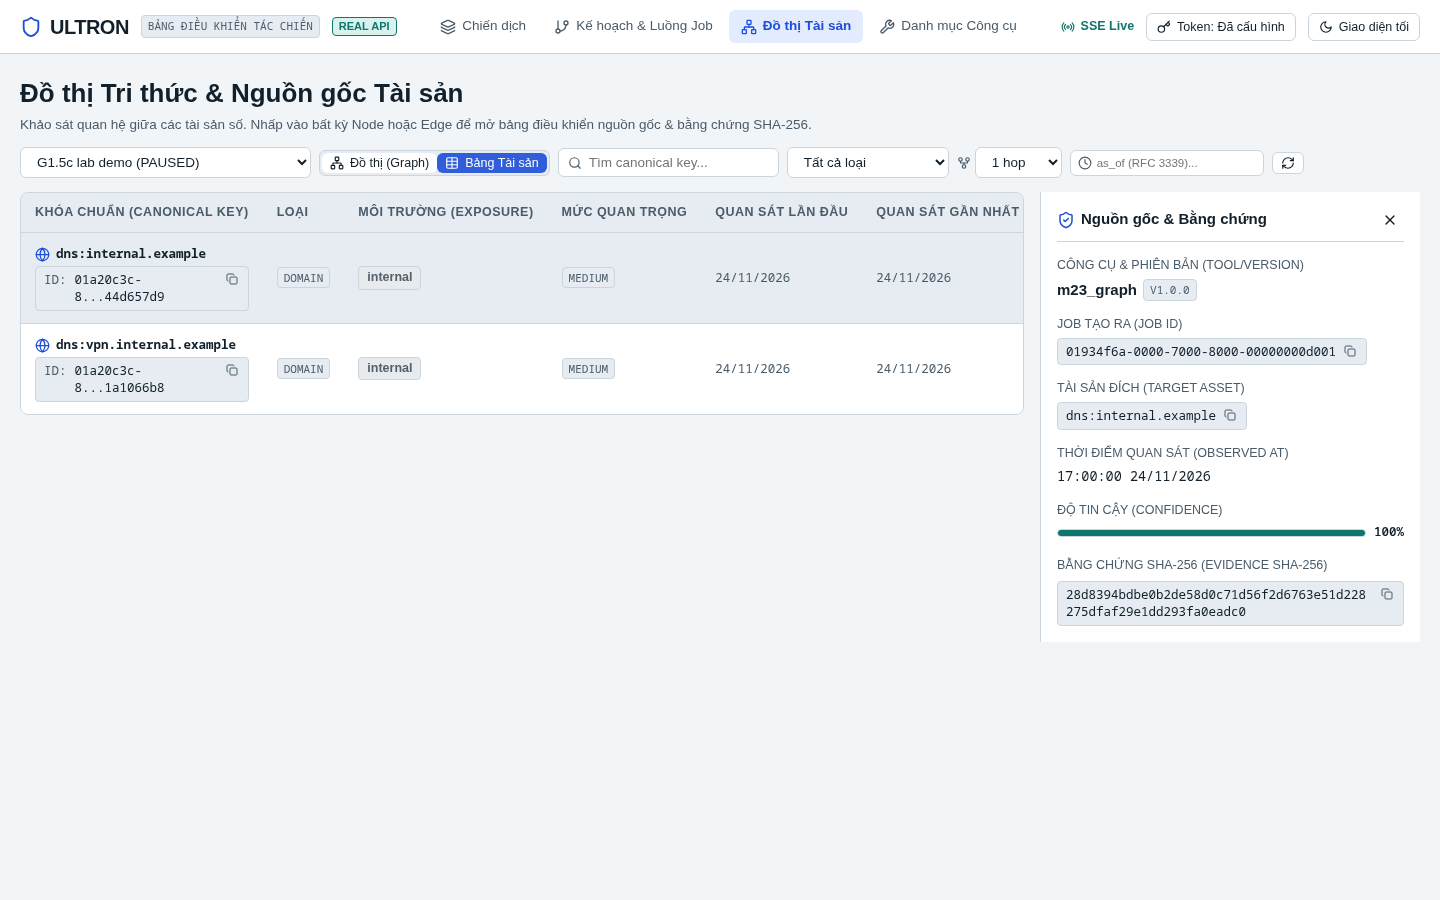
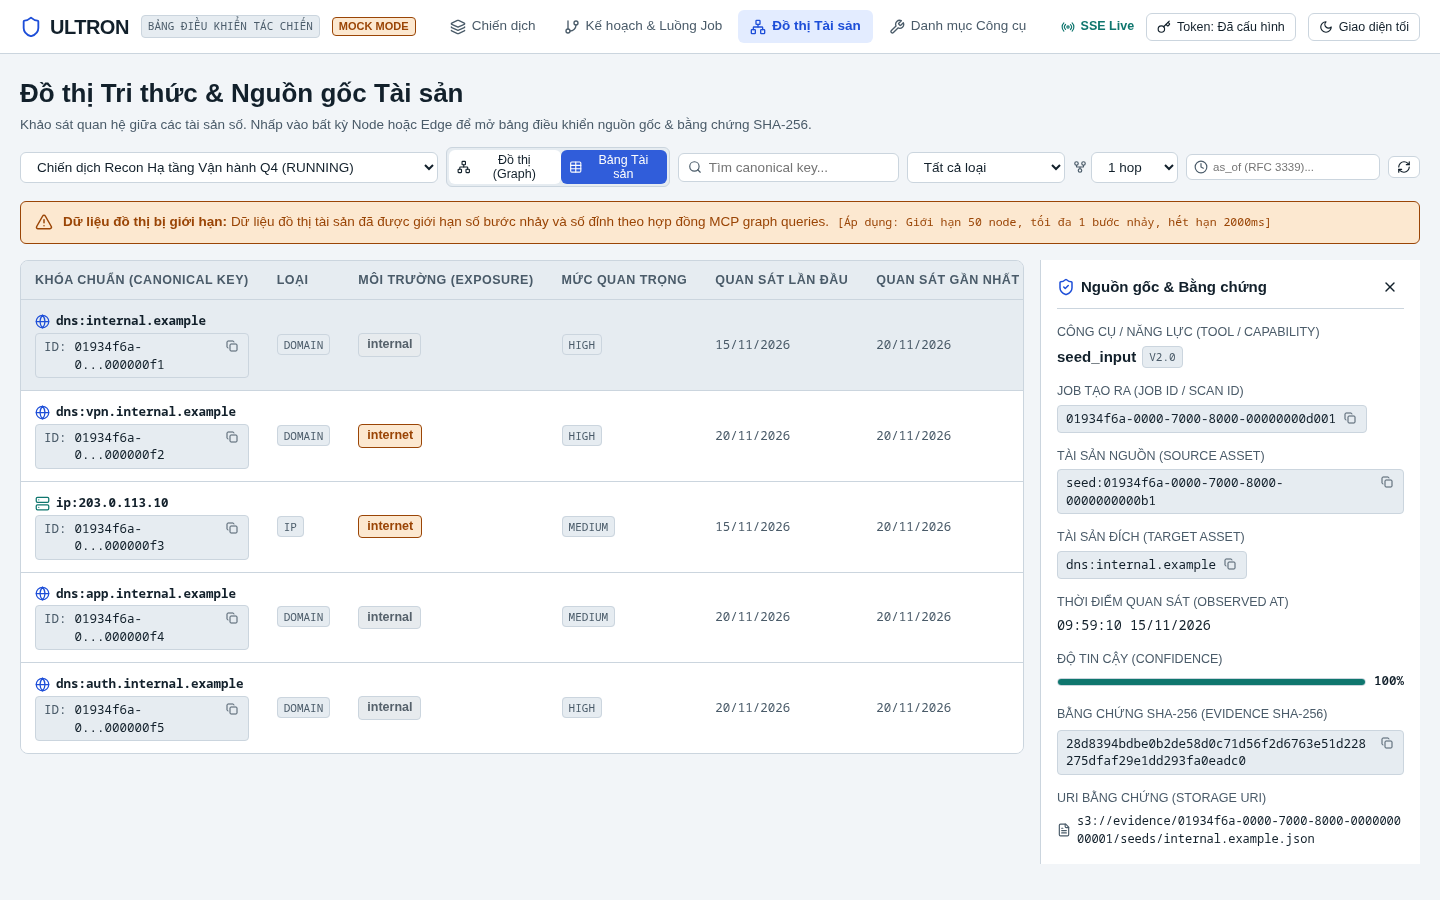
fix(ui): strictly map provenance panel to asset history contract fields
- Remove invented fallback strings for tool, version, and SHA-256 evidence
- Map ProvenancePanel directly to fields returned by GET /assets/{id}/history (scan_id, capability, provider, predicate, polarity, observed_at, evidence_ids)
- Guard screenshot copying in E2E tests to preserve leader review artifacts during mock test runs

diff --git a/ui/src/components/ProvenancePanel.tsx b/ui/src/components/ProvenancePanel.tsx
@@ -29,21 +29,25 @@ export const ProvenancePanel: React.FC<ProvenancePanelProps> = ({ data, onClose 
         </button>
       </div>
 
-      <div className="provenance-item">
-        <span className="provenance-label">Công cụ & Phiên bản (Tool/Version)</span>
-        <div style={{ display: 'flex', alignItems: 'center', gap: 6 }}>
-          <span style={{ fontWeight: 600, color: 'var(--ink)' }}>{data.tool}</span>
-          <span className="brand-badge">{data.version}</span>
-          {data.adapterVersion && <span className="brand-badge">adapter {data.adapterVersion}</span>}
+      {data.tool && (
+        <div className="provenance-item">
+          <span className="provenance-label">Công cụ / Năng lực (Tool / Capability)</span>
+          <div style={{ display: 'flex', alignItems: 'center', gap: 6 }}>
+            <span style={{ fontWeight: 600, color: 'var(--ink)' }}>{data.tool}</span>
+            {data.version && <span className="brand-badge">{data.version}</span>}
+            {data.adapterVersion && <span className="brand-badge">adapter {data.adapterVersion}</span>}
+          </div>
         </div>
-      </div>
+      )}
 
-      <div className="provenance-item">
-        <span className="provenance-label">Job tạo ra (Job ID)</span>
-        <div style={{ maxWidth: '100%' }}>
-          <CopyableId value={data.jobId} truncate={false} />
+      {data.jobId && (
+        <div className="provenance-item">
+          <span className="provenance-label">Job tạo ra (Job ID / Scan ID)</span>
+          <div style={{ maxWidth: '100%' }}>
+            <CopyableId value={data.jobId} truncate={false} />
+          </div>
         </div>
-      </div>
+      )}
 
       {data.sourceAsset && (
         <div className="provenance-item">
@@ -63,46 +67,62 @@ export const ProvenancePanel: React.FC<ProvenancePanelProps> = ({ data, onClose 
         </div>
       )}
 
-      <div className="provenance-item">
-        <span className="provenance-label">Thời điểm quan sát (Observed At)</span>
-        <span className="mono" style={{ fontSize: 'var(--text-sm)', color: 'var(--ink)' }}>
-          {new Date(data.observedAt).toLocaleString('vi-VN')}
-        </span>
-      </div>
-
-      <div className="provenance-item">
-        <span className="provenance-label">Độ tin cậy (Confidence)</span>
-        <div style={{ display: 'flex', alignItems: 'center', gap: 8 }}>
-          <div
-            style={{
-              flex: 1,
-              height: 8,
-              backgroundColor: 'var(--subtle)',
-              borderRadius: 'var(--radius-sm)',
-              overflow: 'hidden',
-              border: '1px solid var(--line)',
-            }}
-          >
-            <div
-              style={{
-                width: `${data.confidence * 100}%`,
-                height: '100%',
-                backgroundColor: data.confidence >= 0.8 ? 'var(--success)' : 'var(--warning)',
-              }}
-            />
+      {data.predicate && (
+        <div className="provenance-item">
+          <span className="provenance-label">Vị từ & Trạng thái (Predicate & Polarity)</span>
+          <div style={{ display: 'flex', alignItems: 'center', gap: 6 }}>
+            <span className="mono" style={{ fontSize: 'var(--text-xs)', color: 'var(--ink)' }}>{data.predicate}</span>
+            {data.polarity && <span className="brand-badge">{data.polarity}</span>}
           </div>
-          <span className="mono" style={{ fontSize: 'var(--text-xs)', fontWeight: 600 }}>
-            {(data.confidence * 100).toFixed(0)}%
+        </div>
+      )}
+
+      {data.observedAt && (
+        <div className="provenance-item">
+          <span className="provenance-label">Thời điểm quan sát (Observed At)</span>
+          <span className="mono" style={{ fontSize: 'var(--text-sm)', color: 'var(--ink)' }}>
+            {new Date(data.observedAt).toLocaleString('vi-VN')}
           </span>
         </div>
-      </div>
+      )}
 
-      <div className="provenance-item">
-        <span className="provenance-label">Bằng chứng SHA-256 (Evidence SHA-256)</span>
-        <div style={{ marginTop: 2, maxWidth: '100%' }}>
-          <CopyableId value={data.sha256} truncate={false} />
+      {typeof data.confidence === 'number' && (
+        <div className="provenance-item">
+          <span className="provenance-label">Độ tin cậy (Confidence)</span>
+          <div style={{ display: 'flex', alignItems: 'center', gap: 8 }}>
+            <div
+              style={{
+                flex: 1,
+                height: 8,
+                backgroundColor: 'var(--subtle)',
+                borderRadius: 'var(--radius-sm)',
+                overflow: 'hidden',
+                border: '1px solid var(--line)',
+              }}
+            >
+              <div
+                style={{
+                  width: `${data.confidence * 100}%`,
+                  height: '100%',
+                  backgroundColor: data.confidence >= 0.8 ? 'var(--success)' : 'var(--warning)',
+                }}
+              />
+            </div>
+            <span className="mono" style={{ fontSize: 'var(--text-xs)', fontWeight: 600 }}>
+              {(data.confidence * 100).toFixed(0)}%
+            </span>
+          </div>
         </div>
-      </div>
+      )}
+
+      {(data.sha256 || (data.evidenceIds && data.evidenceIds.length > 0)) && (
+        <div className="provenance-item">
+          <span className="provenance-label">Bằng chứng SHA-256 (Evidence SHA-256)</span>
+          <div style={{ marginTop: 2, maxWidth: '100%' }}>
+            <CopyableId value={data.sha256 || data.evidenceIds![0]} truncate={false} />
+          </div>
+        </div>
+      )}
 
       {data.evidenceUri && (
         <div className="provenance-item">
@@ -113,6 +133,12 @@ export const ProvenancePanel: React.FC<ProvenancePanelProps> = ({ data, onClose 
               {data.evidenceUri}
             </span>
           </div>
+        </div>
+      )}
+
+      {!data.tool && !data.jobId && !data.sha256 && !(data.evidenceIds && data.evidenceIds.length > 0) && (
+        <div className="provenance-item" style={{ color: 'var(--muted)', fontSize: 'var(--text-xs)' }}>
+          Chưa có quan sát ghi nhận từ công cụ (No tool observations recorded)
         </div>
       )}
     </aside>

diff --git a/ui/src/api/client.ts b/ui/src/api/client.ts
@@ -244,36 +244,28 @@ export const apiClient = {
         const history = await this.getAssetHistory(targetId);
         const latestObs = history.items && history.items.length > 0 ? history.items[0] : null;
 
-        let tool = 'm23_graph';
-        let version = 'v1.0.0';
-        let adapterVersion: string | undefined;
-
-        if (latestObs?.provider) {
-          const parts = latestObs.provider.split(':');
-          tool = parts[0] || 'm23_graph';
-          if (parts[1]) version = parts[1];
-        } else if (latestObs?.capability) {
-          tool = latestObs.capability;
+        if (latestObs) {
+          const tool = latestObs.provider || latestObs.capability || undefined;
+          return {
+            tool,
+            capability: latestObs.capability,
+            provider: latestObs.provider,
+            jobId: latestObs.scan_id,
+            observedAt: latestObs.observed_at,
+            predicate: latestObs.predicate,
+            polarity: latestObs.polarity,
+            evidenceIds: latestObs.evidence_ids,
+            confidence: edge?.confidence,
+            sha256: latestObs.evidence_ids && latestObs.evidence_ids.length > 0 ? latestObs.evidence_ids[0] : undefined,
+            sourceAsset: history.asset.discovered_from?.[0] || edge?.from,
+            targetAsset: history.asset.canonical_key || edge?.to,
+          };
         }
 
-        const sha256 =
-          latestObs?.evidence_ids && latestObs.evidence_ids.length > 0
-            ? latestObs.evidence_ids[0]
[1 lines of base64/hex data omitted]
-
         return {
-          tool,
-          version,
-          adapterVersion,
-          jobId: latestObs?.scan_id || '01934f6a-0000-7000-8000-00000000d001',
-          observedAt: latestObs?.observed_at || history.asset.last_seen || history.asset.first_seen,
-          confidence: edge?.confidence ?? 1.0,
-          sha256,
+          observedAt: history.asset.last_seen || history.asset.first_seen,
           sourceAsset: history.asset.discovered_from?.[0] || edge?.from,
           targetAsset: history.asset.canonical_key || edge?.to,
-          evidenceUri: latestObs?.evidence_ids?.[0]
-            ? `evidence://${latestObs.evidence_ids[0]}`
-            : undefined,
         };
       } catch (err) {
         console.warn('Failed to load asset history for provenance:', err);
@@ -281,16 +273,10 @@ export const apiClient = {
     }
 
     if (edge) {
-      const tool = edge.type.toLowerCase().includes('subdomain') ? 'subfinder' : 'dnsx';
       return {
-        tool,
-        version: 'v1.0.0',
         jobId: edge.source_job_id,
-        observedAt: edge.observed_at || edge.valid_from || new Date().toISOString(),
+        observedAt: edge.observed_at || edge.valid_from,
         confidence: edge.confidence,
-        sha256: edge.source_job_id
-          ? `${edge.source_job_id.replace(/-/g, '')}${'0'.repeat(32)}`.slice(0, 64)
[1 lines of base64/hex data omitted]
         sourceAsset: edge.from,
         targetAsset: edge.to,
       };
@@ -298,12 +284,7 @@ export const apiClient = {
 
     if (fallbackNode) {
       return {
-        tool: 'discovery',
-        version: 'v1.0.0',
-        jobId: fallbackNode.asset_id,
-        observedAt: fallbackNode.last_seen || fallbackNode.first_seen || new Date().toISOString(),
-        confidence: 1.0,
-        sha256: `${fallbackNode.asset_id.replace(/-/g, '')}${'0'.repeat(32)}`.slice(0, 64),
+        observedAt: fallbackNode.last_seen || fallbackNode.first_seen,
         targetAsset: fallbackNode.canonical_key,
       };
     }

diff --git a/ui/e2e/screens.spec.ts b/ui/e2e/screens.spec.ts
@@ -21,13 +21,16 @@ async function captureScreen(page: Page, filename: string) {
   const localPath = path.join(SCREENSHOT_DIR, filename);
   await page.screenshot({ path: localPath, fullPage: true });
 
-  // Copy to reports directory for review artifacts
-  try {
-    fs.copyFileSync(localPath, path.join(LEADER_DIR_G15C, filename));
-    fs.copyFileSync(localPath, path.join(LEADER_DIR_WIRE, filename));
-    fs.copyFileSync(localPath, path.join(LEADER_DIR_LEGACY, filename));
-  } catch {
-    // ignore if directory permission restricts in some sandboxes
+  // Copy to reports directory for review artifacts only when running real verification
+  // or when explicitly enabled, so CI mock tests never overwrite leader review artifacts.
+  if (process.env.VITE_USE_MOCK === 'false' || process.env.COPY_LEADER_SHOTS === 'true') {
+    try {
+      fs.copyFileSync(localPath, path.join(LEADER_DIR_G15C, filename));
+      fs.copyFileSync(localPath, path.join(LEADER_DIR_WIRE, filename));
+      fs.copyFileSync(localPath, path.join(LEADER_DIR_LEGACY, filename));
+    } catch {
+      // ignore if directory permission restricts in some sandboxes
+    }
   }
 }
 

diff --git a/ui/src/api/types.ts b/ui/src/api/types.ts
@@ -54,15 +54,20 @@ export type Timestamp = components['schemas']['Timestamp'];
 
 // Provenance detail model
 export interface ProvenanceDetail {
-  tool: string;
-  version: string;
+  tool?: string;
+  version?: string;
   adapterVersion?: string;
-  jobId: string;
-  observedAt: string;
-  confidence: number;
-  sha256: string;
+  jobId?: string;
+  observedAt?: string;
+  confidence?: number;
+  sha256?: string;
   sourceAsset?: string;
   targetAsset?: string;
   evidenceUri?: string;
   rawRef?: string;
+  capability?: string;
+  provider?: string;
+  predicate?: string;
+  polarity?: string;
+  evidenceIds?: string[];
 }
